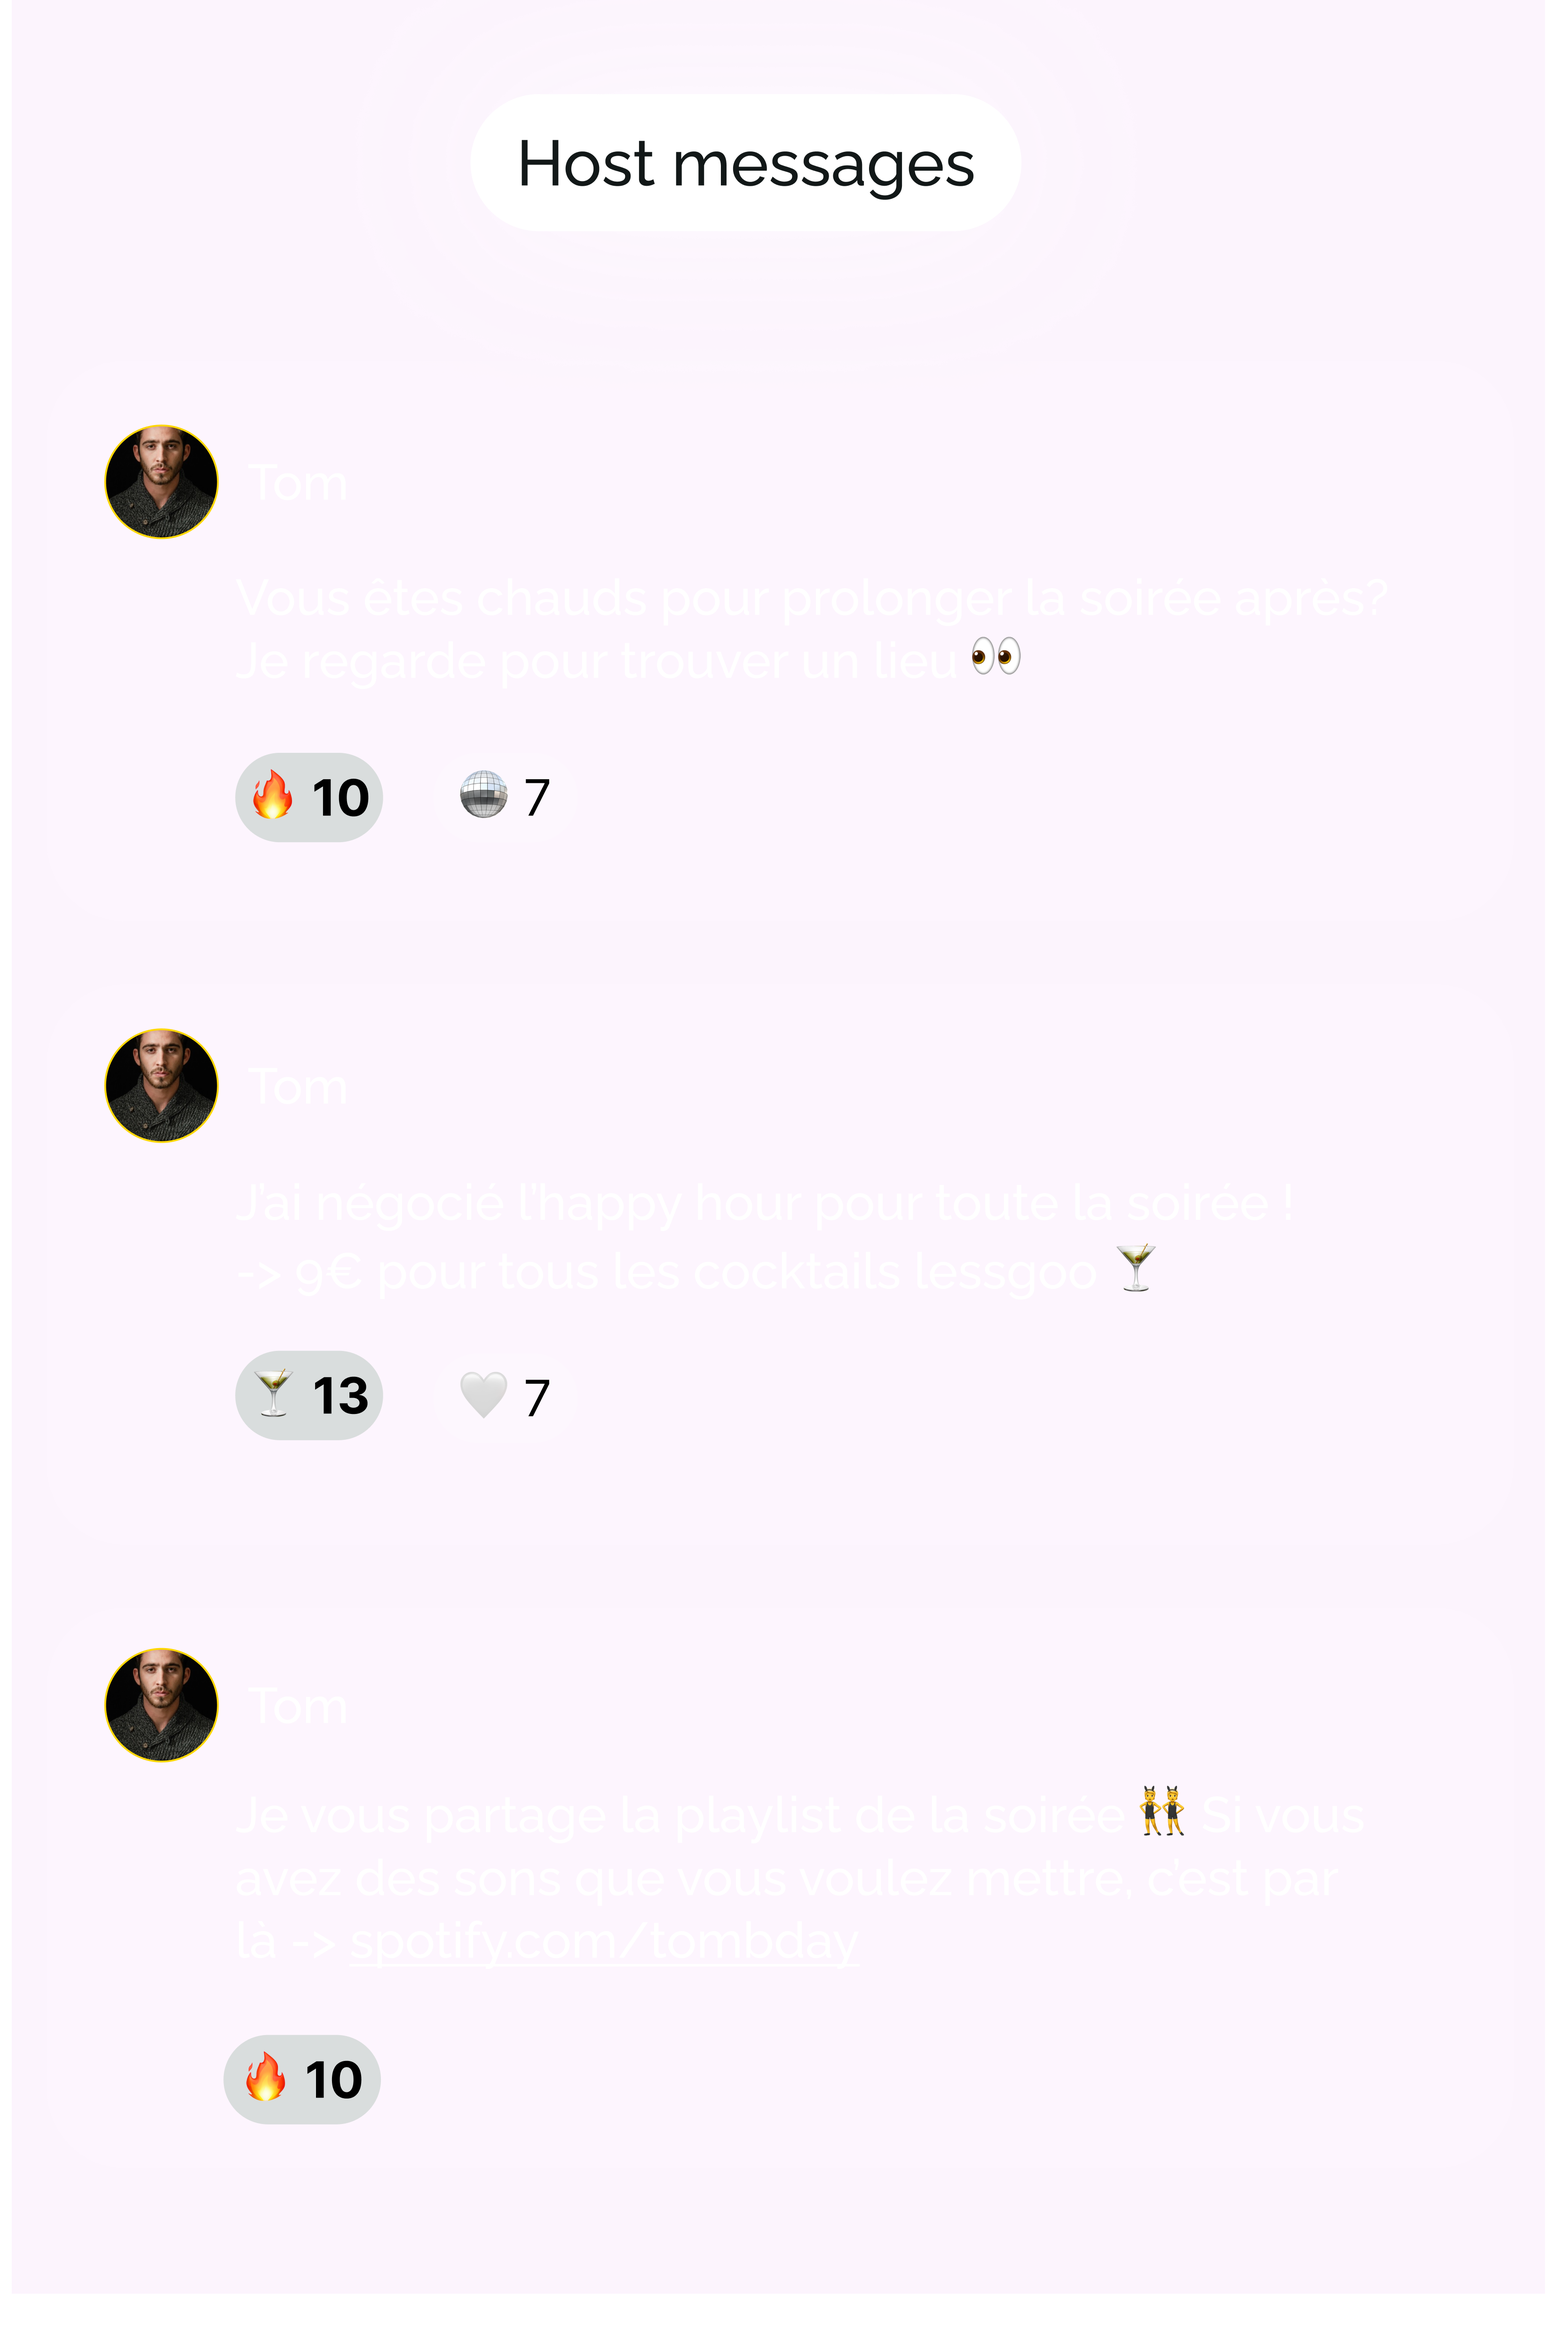
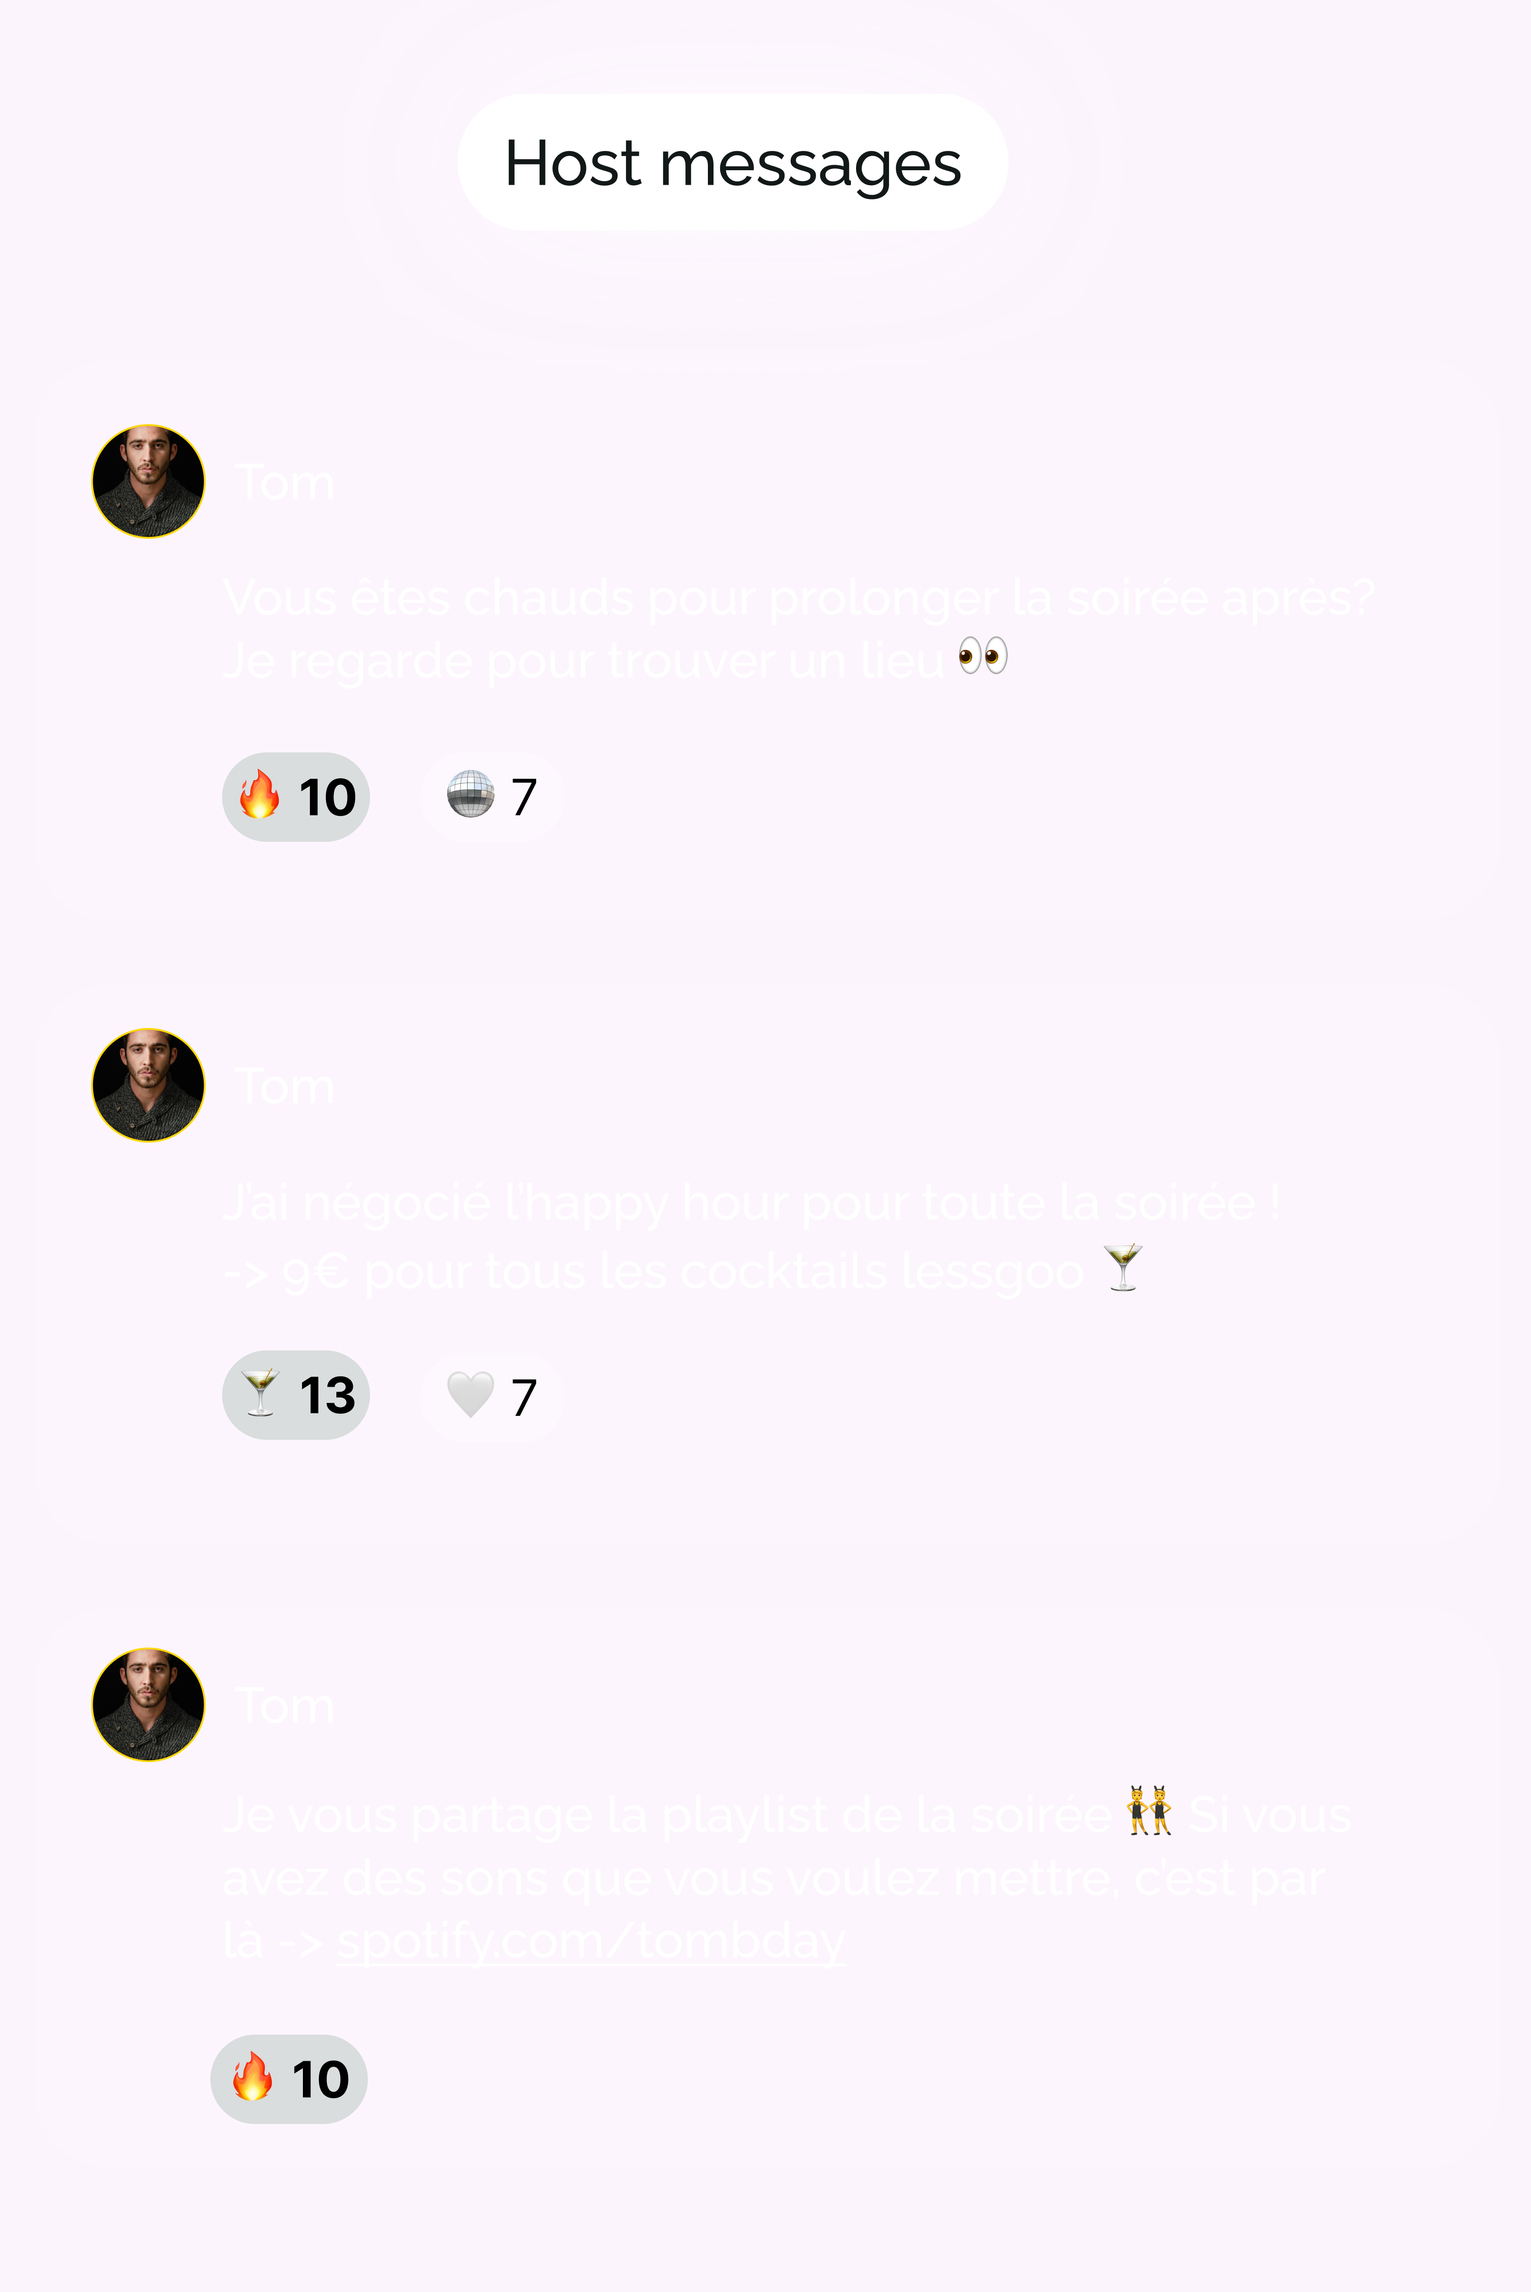
improving home page responsiveness

diff --git a/src/pages/Home.jsx b/src/pages/Home.jsx
@@ -53,7 +53,11 @@ const Home = () => {
               Garde tes invités <span>chauds</span> 🔥
             </h3>
             <p>Envoie des messages dans le canal de ton événement</p>
-            <img src={hostMessages} alt="host messages preview" />
+            <img
+              src={hostMessages}
+              alt="host messages preview"
+              id="host-messages"
+            />
             <p>
               ou organise une surprise pour l'organisateur en secret avec les
               autres invités 🤫

diff --git a/src/pages/Home.css b/src/pages/Home.css
@@ -258,4 +258,26 @@
   .home-button-container {
     margin-top: -220px;
   } */
+
+  /***********************/
+  /* SECTION 2-CONTAINER */
+  /***********************/
+
+  .home-section-messages img {
+    width: 50%;
+    margin-bottom: 40px;
+  }
+
+  #host-messages {
+    border-radius: 24px;
+  }
+
+  /***********************/
+  /* SECTION 3-CONTAINER */
+  /***********************/
+
+  .home-section-share img {
+    width: 50%;
+    margin-bottom: 16px;
+  }
 }

diff --git a/src/components/HomeButton/HomeButton.css b/src/components/HomeButton/HomeButton.css
@@ -15,3 +15,7 @@
   border: none;
   cursor: pointer;
 }
+
+.home-button:hover {
+  opacity: 0.8;
+}
